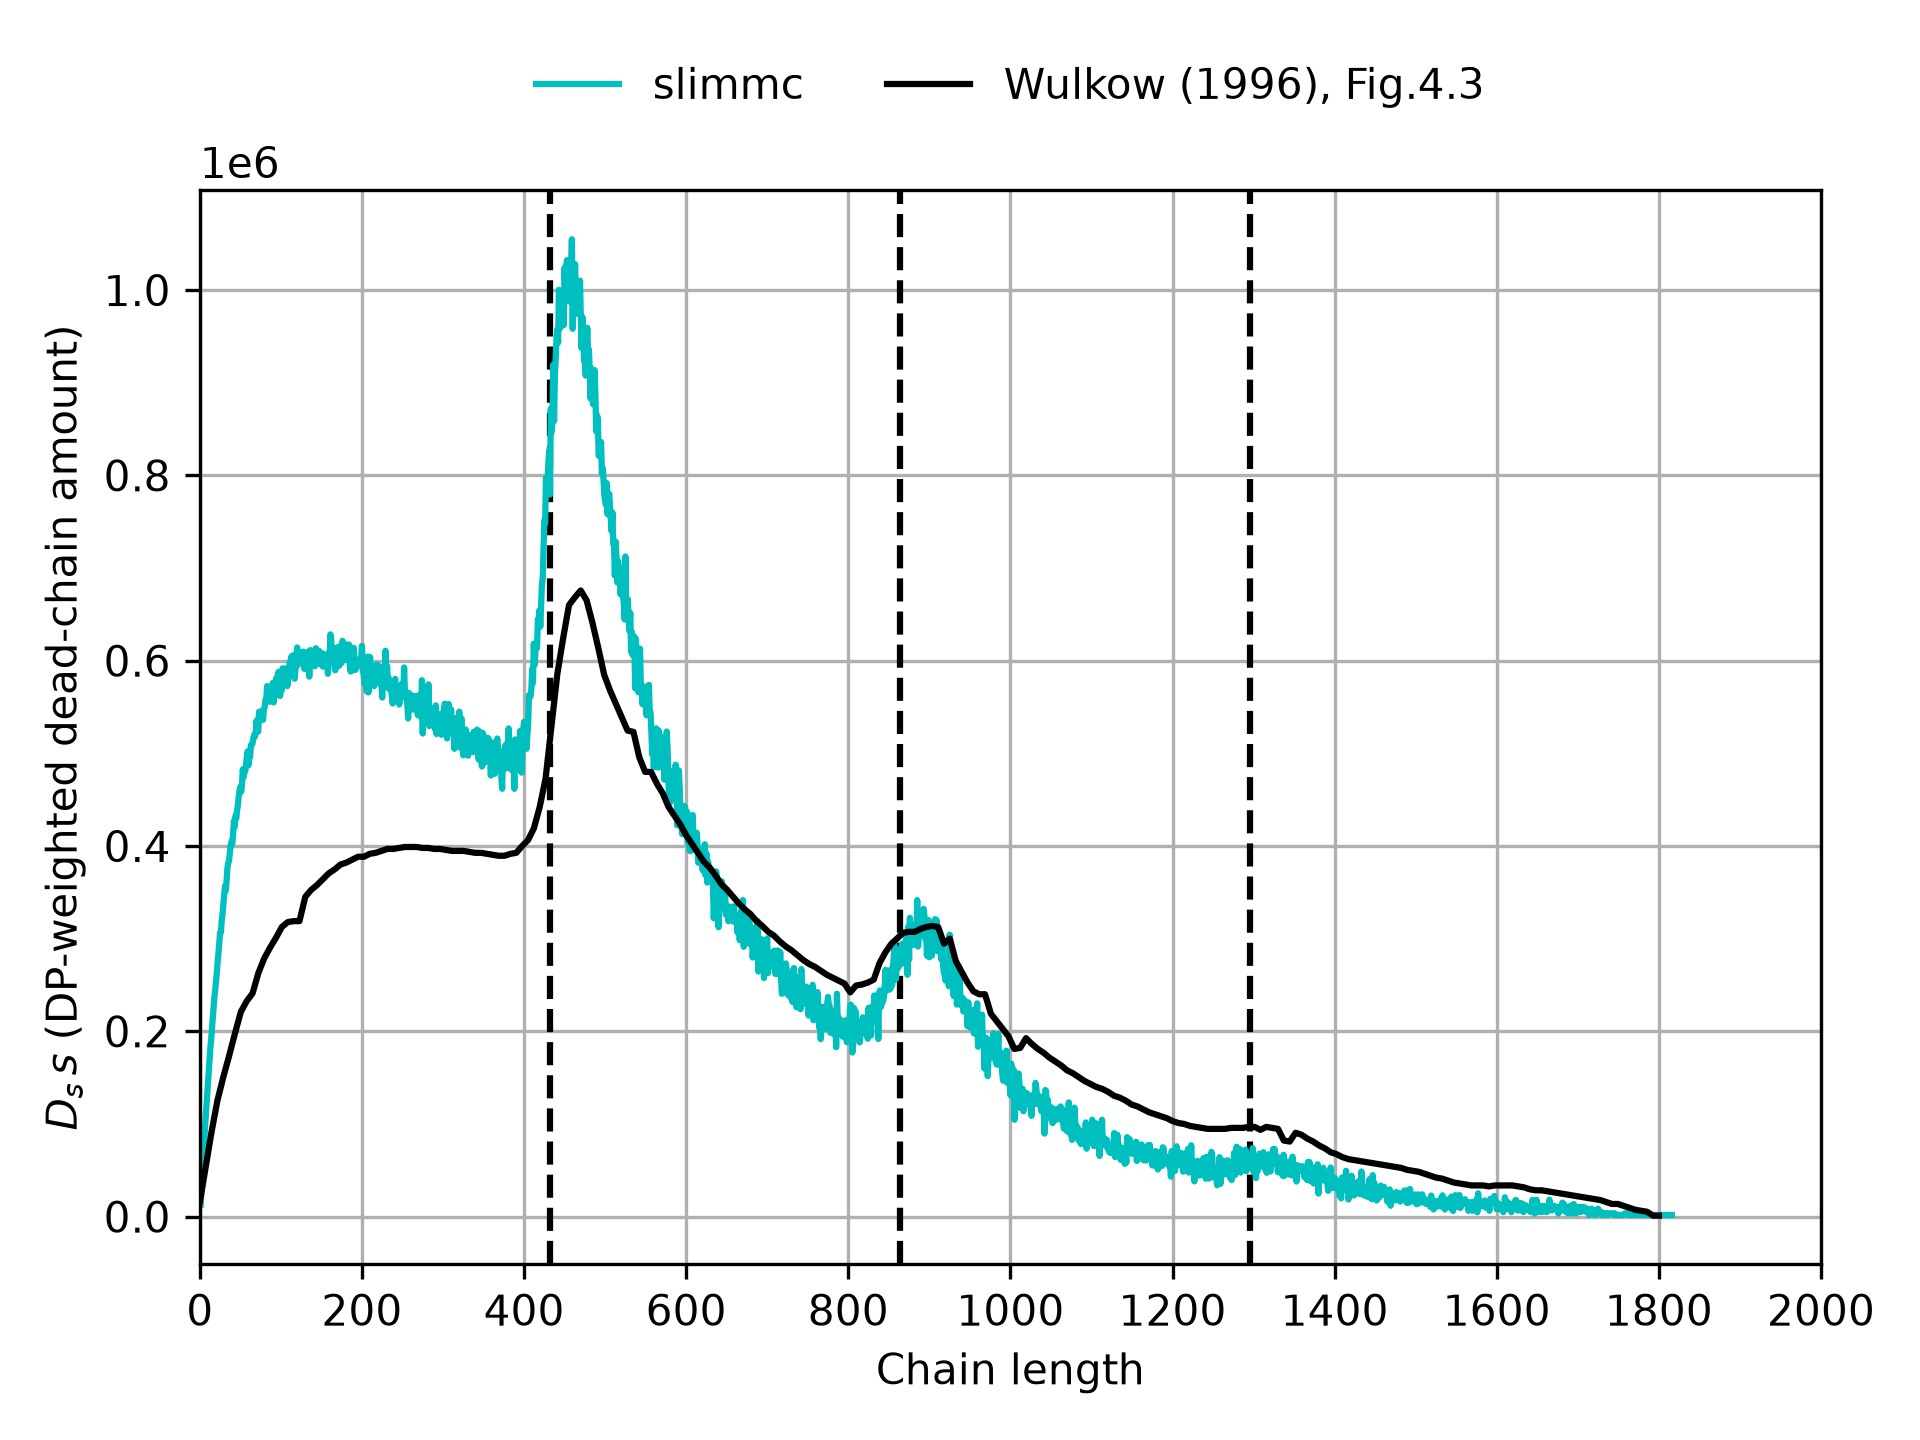
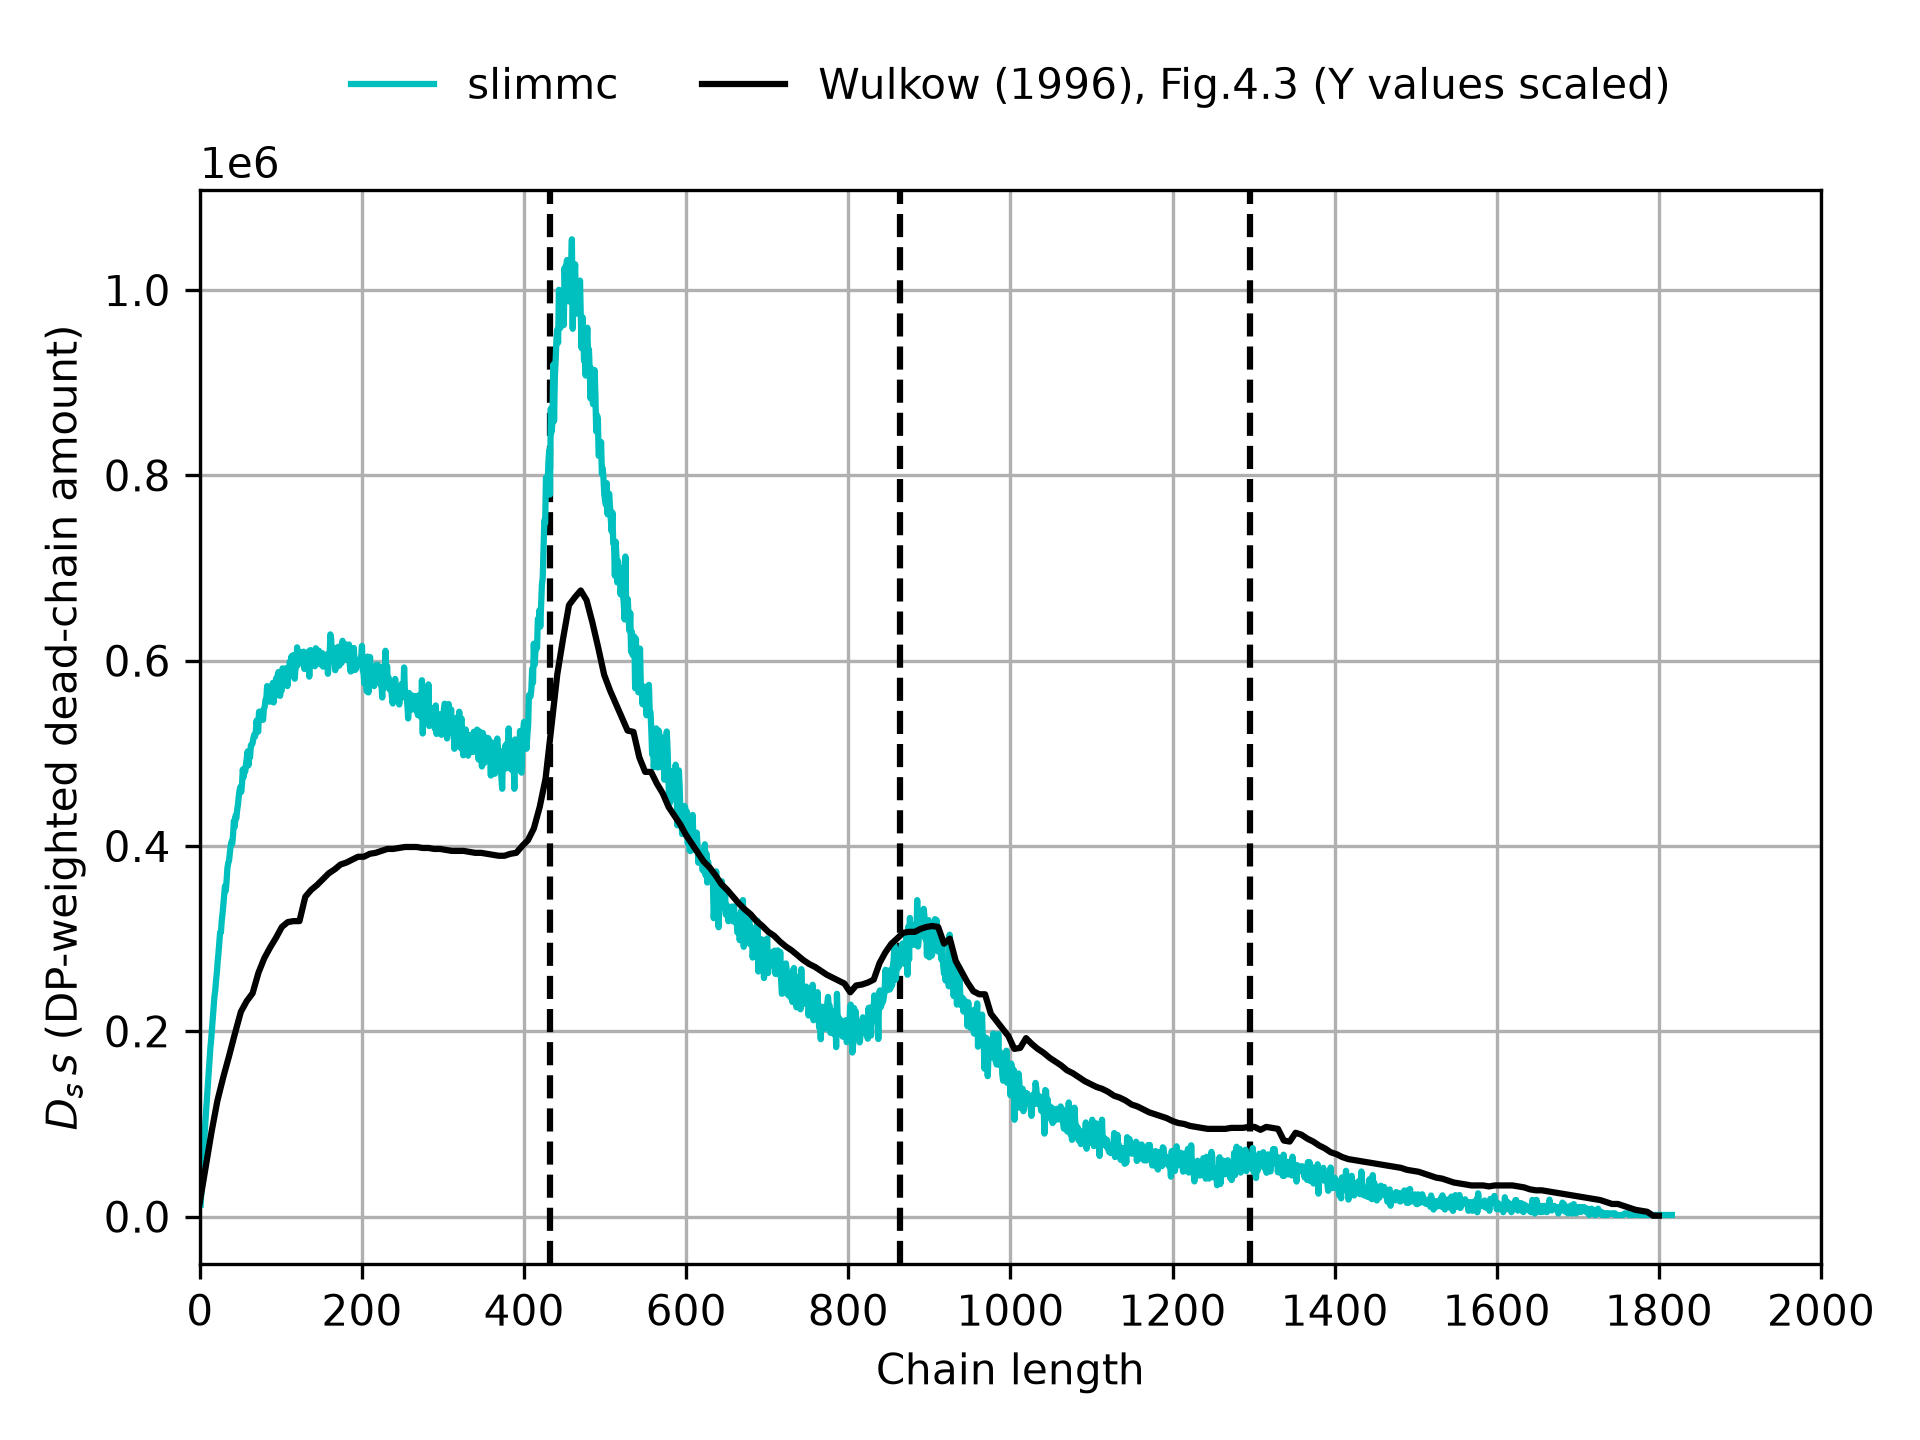
Update A02 Wulkow analysis and figure

Changed region(s): [[0.25, 0.0312, 0.7812, 0.0938], [0.8125, 0.0312, 0.875, 0.0625], [0.1875, 0.0312, 0.2188, 0.0625]]

diff --git a/cases/A02_PLP_Wulkow_1996/analyze.py b/cases/A02_PLP_Wulkow_1996/analyze.py
@@ -65,7 +65,7 @@ cld = run.cld(snapshot="final", pool="dead",
 for L in [L1, L2, L3]:
     plt.axvline(L, linestyle="--", color='black')
 plt.plot(cld.x, cld.y, 'c-', label='slimmc')
-plt.plot(x,4e6*y,'k-',label='Wulkow (1996), Fig.4.3')
+plt.plot(x,4e6*y,'k-',label='Wulkow (1996), Fig.4.3 (Y values scaled)')
 
 plt.gca().xaxis.set_major_locator(plt.MultipleLocator(200))
 plt.gca().yaxis.set_major_locator(plt.MultipleLocator(2e5))
